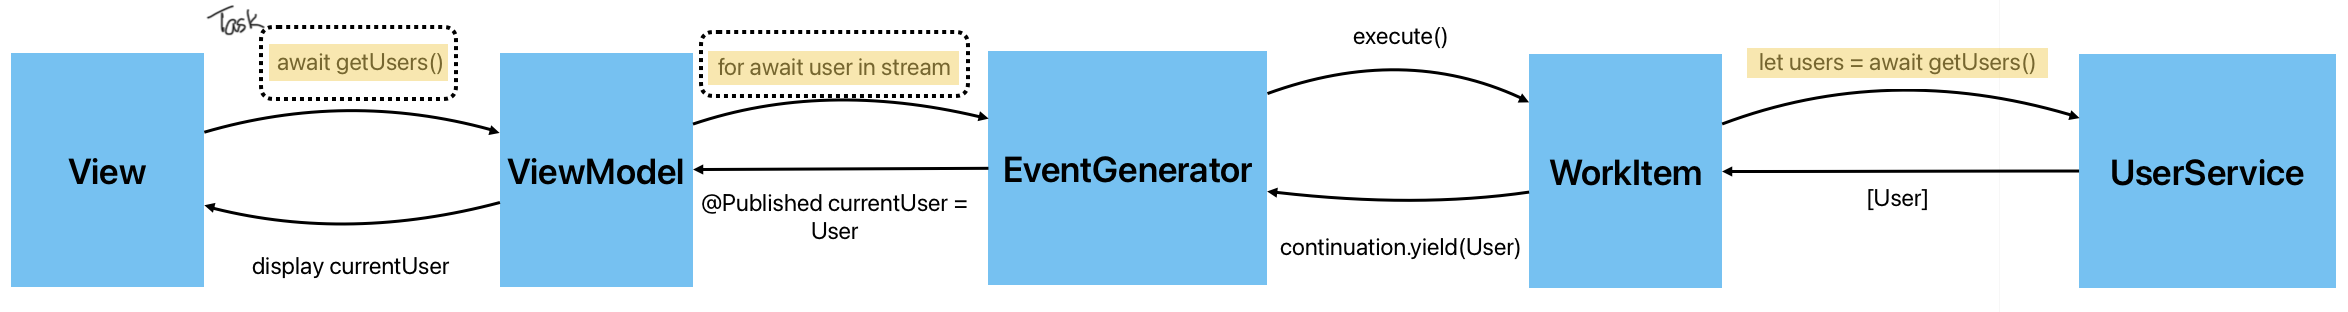
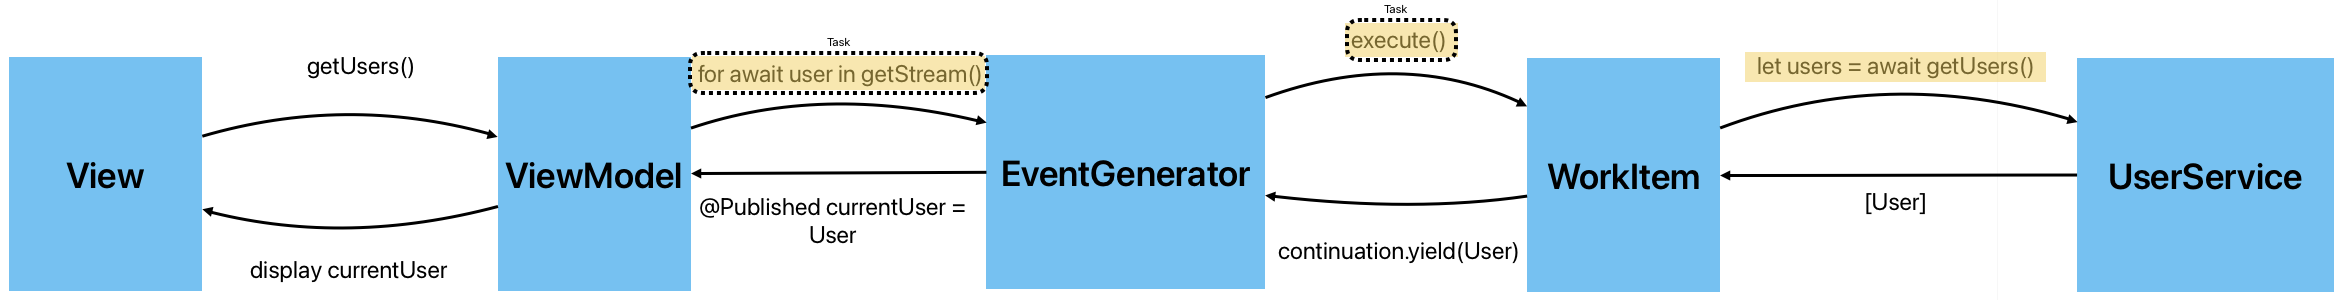
Updated documentation

diff --git a/AsynchronousProgramming/AsyncStream/EventGenerator.swift b/AsynchronousProgramming/AsyncStream/EventGenerator.swift
@@ -14,9 +14,7 @@ struct EventGeneratorView: View {
     var body: some View {
         VStack {
             Button("Start", systemImage: "timer") {
-                Task {
-                    await viewModel.getUser()
-                }
+                viewModel.getUser()
             }
             
             Label(viewModel.currentUser, systemImage: "person.fill")
@@ -27,21 +25,47 @@ struct EventGeneratorView: View {
 @MainActor
 class EventGeneratorViewModel : ObservableObject {
     @Published var currentUser: String = ""
-    let generator: StringGenerator = StringGenerator(workItem: WorkItem { return "User #" })
+    let generator: Generator<String> = Generator<String>(workItem: WorkItem { return "User #" })
+
+    func getUser() {
+        Task {
+            await getUser()
+        }
+    }
     
-    func getUser() async {
+    private func getUser() async {
         currentUser = "Phil"
+        var i:Int = 1
         
-        for await user in await generator.getStream() {
-                currentUser = user
+        for await user in generator.getStream() {
+            currentUser = user + String(i)
+            i += 1
         }
         
         currentUser = "Terminated"
     }
 }
 
+enum GeneratorState : CustomStringConvertible {
+    case initial(String)
+    case processing(String)
+    case finished
+    
+    var description : String {
+        switch(self) {
+        case .initial(let value):
+            return "Initial: \(value)"
+        case .processing(let value):
+            return "\(value)"
+        case .finished:
+            return "Finished"
+        }
+    }
+}
+
 class StringGenerator {
     let workItem: WorkItem<String>
+    var state: GeneratorState = .initial("Initial")
     
     init(workItem: WorkItem<String>) {
         self.workItem = workItem
@@ -53,12 +77,37 @@ class StringGenerator {
                 for i in 1..<6 {
                     let s = workItem.execute()
                     let event = String(s) + String(i)
-                    try await Task.sleep(nanoseconds: 1 * 5_000_000_000)
+                    self.state = .processing(event)
+                    try await Task.sleep(nanoseconds: 1 * 2_000_000_000)
                     continuation.yield(event)
                 }
                 
                 try await Task.sleep(nanoseconds: 1 * 5_000_000_000)
                 continuation.yield("End")
+                continuation.finish()
+                self.state = .finished
+            }
+        }
+    }
+}
+
+class Generator<T> {
+    let workItem: WorkItem<T>
+    
+    init(workItem: WorkItem<T>) {
+        self.workItem = workItem
+    }
+    
+    func getStream() -> AsyncStream<T> {
+        AsyncStream<T> { continuation in
+            Task {
+                for i in 1..<6 {
+                    let s = workItem.execute()
+                    try await Task.sleep(nanoseconds: UInt64(i * 5_000_000_000))
+                    continuation.yield(s)
+                }
+                
+                try await Task.sleep(nanoseconds: 1 * 5_000_000_000)
                 continuation.finish()
             }
         }

diff --git a/AsynchronousProgramming/BasicAsynchronous/Tasks.swift b/AsynchronousProgramming/BasicAsynchronous/Tasks.swift
@@ -1,0 +1,81 @@
+//
+//  Tasks.swift
+//  AsynchronousProgramming
+//
+//  Created by Phil Kirby on 1/23/25.
+//
+
+import Foundation
+import SwiftUI
+
+struct TaskView : View {
+    var body: some View {
+        VStack {
+            ThreeTasksView()
+            AsyncLetTasks()
+        }
+    }
+}
+
+struct ThreeTasksView: View {
+    @State var title: String = "Start Three Tasks In Parallel"
+    
+    var body: some View {
+        Button(title) {
+            print(title)
+            Task {
+                print("running Task 1")
+                try await Task.sleep(nanoseconds: 3 * 2_000_000_000)
+                print("Task 1 ended.")
+            }
+
+            Task {
+                print("running Task 2")
+                try await Task.sleep(nanoseconds: 3 * 2_000_000_000)
+                print("Task 2 ended.")
+            }
+
+            Task {
+                print("running Task 3")
+                try await Task.sleep(nanoseconds: 3 * 2_000_000_000)
+                print("Task 3 ended.")
+                
+            }
+        }
+    }
+}
+
+struct AsyncLetTasks: View {
+    @State var title: String = "Use async let to start tasks in parallel"
+    
+    var body: some View {
+        Button(title) {
+            print(title)
+            
+            Task {
+                async let firstTask = await runTask(id: "1")
+                async let secondTask = await runTask(id: "2")
+                async let thirdTask = await runTask(id: "3")
+                let images = await [firstTask, secondTask, thirdTask]
+            }
+        }
+    }
+    
+    func runTask(id: String) async {
+        Task {
+            print("running \(id)")
+            try await Task.sleep(nanoseconds: 3 * 2_000_000_000)
+            print("Task \(id) ended.")
+        }
+    }
+}
+
+struct TaskGroupView: View {
+    @State var title: String = "Use a task group to start tasks in parallel"
+    
+    var body: some View {
+        Button(title) {
+            print(title)
+        }
+    }
+}

diff --git a/AsynchronousProgramming/ContentView.swift b/AsynchronousProgramming/ContentView.swift
@@ -86,7 +86,8 @@ struct ContentView: View {
 //        CombineView()
 //        InfiniteStreamView()
 //        StopwatchView()
-        EventGeneratorView()
+//        EventGeneratorView()
+        TaskView()
     }
 }
 

diff --git a/AsynchronousProgramming/Documentation/AsynchronousProgramming.md b/AsynchronousProgramming/Documentation/AsynchronousProgramming.md
@@ -795,5 +795,87 @@ class EventGenerator {
 I've introduced a delay by calling `Task.sleep()` sync the call throws it needs be wrapped in a `do-catch` block.  This block also needs to be wrapped in a `Task` block since we are calling `await Task.sleep(...)`, the `Task` provides an async context within the synchronous property `eventStream`.
  
 
-### Another Approach
-![Linked View Model Diagram](https://pakirby1.github.io/images/LinkedViewModel.001.png)
+### More
+We can make the view/viewmodel a little better by moving the `Task` block into the view model:
+
+```swift
+struct EventGeneratorView: View {
+    @StateObject var viewModel = EventGeneratorViewModel()
+    
+    var body: some View {
+        VStack {
+            Button("Start", systemImage: "timer") {
+                viewModel.getUser()
+            }
+            
+            Label(viewModel.currentUser, systemImage: "person.fill")
+        }
+    }
+}
+
+@MainActor
+class EventGeneratorViewModel : ObservableObject {
+    @Published var currentUser: String = ""
+    let generator: Generator<String> = Generator<String>(workItem: WorkItem { return "User #" })
+
+    func getUser() {
+        Task {
+            await getUser()
+        }
+    }
+    
+    private func getUser() async {
+        currentUser = "Phil"
+        var i:Int = 1
+        
+        for await user in await generator.getStream() {
+            currentUser = user + String(i)
+            i += 1
+        }
+        
+        currentUser = "Terminated"
+    }
+}
+```
+![EventFlow](assets/EventFlow.png)
+
+## Services
+### User Service
+Provides the following support:
+1. Get all or a subset of users
+2. Get details for a specific user
+
+```mermaid
+classDiagram
+    class WorkItem {
+        +execute : `() -> Void`
+    }
+    
+    class UserService {
+        +getUsers() async -> [User]
+
+    }
+    
+    class EventGenerator {
+        +eventStream : AsyncStream~User~
+        -workItem: WorkItem~User~
+        +init(WorkItem)
+    }
+    
+    class User {
+        +id UUID
+        +getDetails(UUID) async -> UserDetails
+    }
+    
+    class UserDetails {
+        +name String
+        +dob Date
+    }
+    
+    EventGenerator --> WorkItem
+    WorkItem --> UserService
+    UserService --> User
+    User --> UserDetails
+```
+
+
